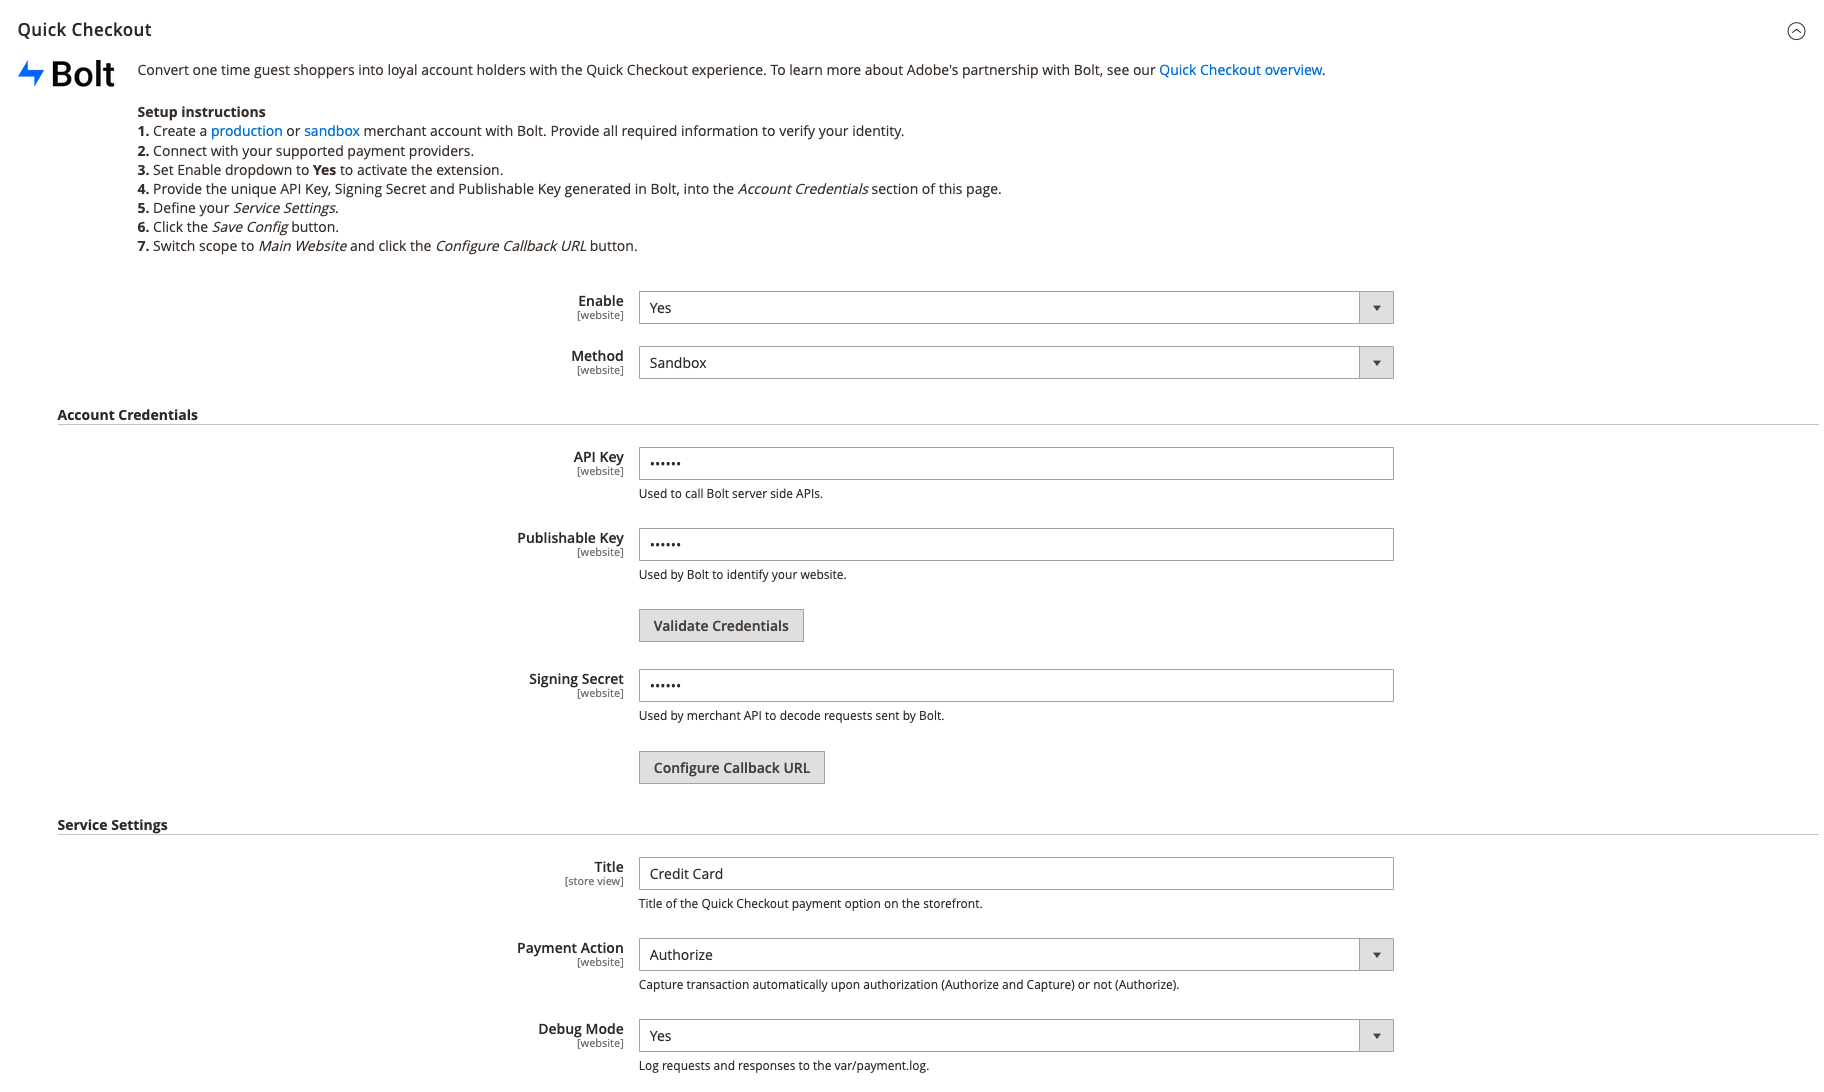
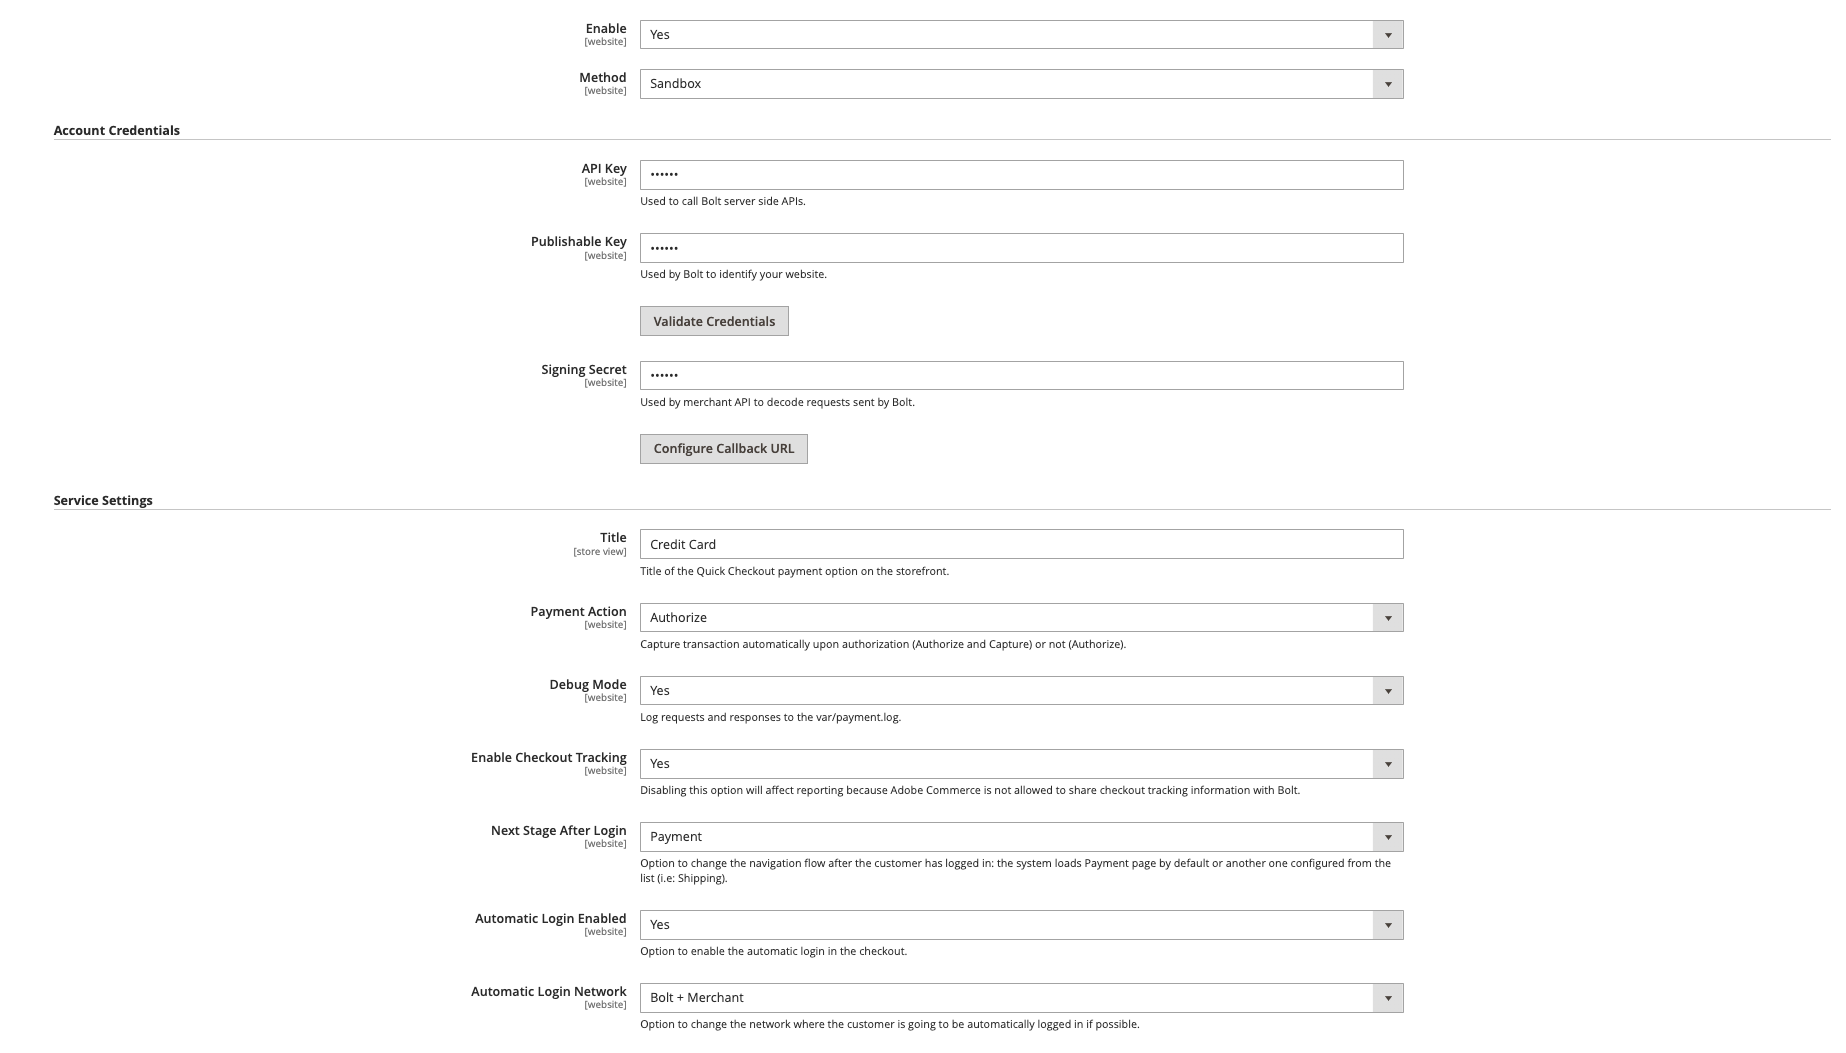
BOLT-522: Update release notes page with Quick Checkout 1.5.0 release (#248)
* changes from BOLT-522

* Latest changes from automatic login

* added release notes for 1.5.0

diff --git a/help/quick-checkout/onboarding.md b/help/quick-checkout/onboarding.md
@@ -93,7 +93,7 @@ To connect your payment services provider follow the steps described in the [pro
 
 1. Validate credentials after providing your unique API and [!DNL Publishable keys].
 
-![Quick Checkout](assets/quick-checkout-main-view-react.png)
+![Quick Checkout](assets/quick-checkout-main-view.png)
 
 Refer to the [Settings](../quick-checkout/settings-quick-checkout.md) topic for more information on the configuration options for the [!DNL Quick Checkout] for Adobe Commerce extension.
 
@@ -103,7 +103,7 @@ Refer to the [Settings](../quick-checkout/settings-quick-checkout.md) topic for 
 
 ## Complete Admin configuration
 
-1. On the _Admin_ sidebar, navigate to **Stores** > **Configuration** > **Checkout** to acess the general Checkout Admin config page.
+1. On the _Admin_ sidebar, navigate to **Stores** > **Configuration** > **Checkout** to access the general Checkout Admin config page.
 1. In the _Service Settings_ section, provide all details required to enable the extension.
 1. Set _Payment Action_ to either option:
 
@@ -143,6 +143,7 @@ See the [Site, Store, and View Scope](https://experienceleague.adobe.com/docs/co
    > Disabling this option will affect reporting because Adobe Commerce is not allowed to share checkout tracking information with Bolt.
 
 1. Select the **Next Stage After Login** option to change the navigation flow after the customer has logged in. By default it is set to the **Payments** page.
+1. Define if [!DNL Quick Checkout] allows for the **automatic login** during checkout. By default it is enabled to automatically login to the [!DNL Bolt] network.
 
 ## Get help
 

diff --git a/help/quick-checkout/release-notes.md b/help/quick-checkout/release-notes.md
@@ -59,6 +59,20 @@ _October 5, 2022_
 
 +++
 
+## v1.5.0
+
+_January 18, 2023_
+
+![New](../assets/new.svg)<!-- Issue BOLT-522 --> A new configuration can be enabled/disabled to detect if [shoppers](https://experienceleague.adobe.com/docs/commerce-merchant-services/quick-checkout/manage-checkout/checkout-options/checkout-adobe-commerce.html) can be automatically logged in Bolt.
+
+![New](../assets/new.svg)<!-- Issue BOLT-523 --> A new configuration can be enabled/disabled that allows merchants to specify if shoppers can be automatically logged in to both networks, or just Bolt network.
+
+![Fixed issue](../assets/fix.svg)<!-- Issue BOLT-542 --> User experience improvements when [saving card or address to a Bolt account](https://experienceleague.adobe.com/docs/commerce-merchant-services/quick-checkout/getting-started/onboarding.html) when a shopper provides email.
+
+![Fixed issue](../assets/fix.svg)<!-- Issue BOLT-550 --> User experience improvements in [automatic login](https://experienceleague.adobe.com/docs/commerce-merchant-services/quick-checkout/getting-started/onboarding.html#configure-service-settings) when a Bolt user provides email.
+
+![Fixed issue](../assets/fix.svg)<!-- Issue BOLT-544 --> Compatibility improvements for [callback URLs](https://experienceleague.adobe.com/docs/commerce-merchant-services/quick-checkout/getting-started/onboarding.html#check-shopper-valid-account) with [multi-sites](https://experienceleague.adobe.com/docs/commerce-operations/configuration-guide/multi-sites/ms-overview.html) in Bolt. 
+
 ## v1.4.0
 
 _November 30, 2022_

diff --git a/help/quick-checkout/settings-quick-checkout.md b/help/quick-checkout/settings-quick-checkout.md
@@ -12,7 +12,7 @@ To access these configuration settings:
 1. On the _Admin_ sidebar, go to **Stores** > _Settings_ > **Configuration**.
 1. In the left panel, expand **Sales** and select **Checkout**.
 
-   ![Quick Checkout](assets/quick-checkout-main-view-admin.png)
+   ![Quick Checkout](assets/configuration-view.png)
 
 Refer to the [Onboarding](../quick-checkout/onboarding.md) topic for more information on how to configure the [!DNL Quick Checkout] for Adobe Commerce.
 
@@ -50,5 +50,7 @@ Refer to the [Onboarding](../quick-checkout/onboarding.md) topic for more inform
 | [!UICONTROL Debug Mode] | website | Enable or disable Debug Mode. Options: [!UICONTROL Yes] / [!UICONTROL No] |
 | [!UICONTROL Enable checkout tracking] | website | Define if Adobe Commerce allows checkout tracking information to be shared with Bolt. Enabled by default. If disabled, reporting will be affected. Options: [!UICONTROL Yes] / [!UICONTROL No] |
 | [!UICONTROL Next Stage After Login Mode] | website | Change navigation flow after customer is logged in. Options: [!UICONTROL Payment] / [!UICONTROL Shipping] |
+| [!UICONTROL Automatic Login Enabled] | website | Define if [!DNL Quick Checkout] allows for the automatic login during checkout. Enabled by default. Options: [!UICONTROL Yes] / [!UICONTROL No] |
+| [!UICONTROL Automatic Login Network] | website | Select the network where the customer logs in automatically. Enabled Bolt by default. Options: [!UICONTROL Bolt + Merchant] / [!UICONTROL Bolt] |
 
 {style="table-layout:auto"}

diff --git a/help/quick-checkout/checkout-adobe-commerce.md b/help/quick-checkout/checkout-adobe-commerce.md
@@ -34,6 +34,19 @@ If the shopper is logged in to Adobe Commerce prior to checkout, the [!DNL Bolt]
 
 If you encounter issues when you place an order as an existing Adobe Commerce user, see the [Troubleshoot Quick Checkout issues](https://experienceleague.adobe.com/docs/commerce-knowledge-base/kb/troubleshooting/miscellaneous/quick-checkout-issues.html) article in the Adobe Commerce Help Center.
 
+### Automatic login
+
+It is possible to configure an automatic login for [!DNL Quick Checkout] users. You can enable a configuration to automatically login a user during checkout.
+
+1. On the _Admin_ sidebar, navigate to **Stores** > **Configuration** > **Checkout** to access the general Checkout Admin config page.
+1. In the _Service Settings_ section for [!DNL Quick Checkout], provide all details required to setup automatic login.
+
+See [[!DNL Quick Checkout] configure service settings](../quick-checkout/onboarding.md#configure-service-settings) topic for more information.
+
+>[!NOTE]
+>
+> First time login when **automatic login** is enabled requires consent from the user to authorize it by accepting a pop-up window.
+
 ## New [!DNL Bolt] account
 
 If no [!DNL Bolt] account is found, shoppers continue with their default out-of-the-box Adobe Commerce checkout and the shopper selects all necessary details from their saved information to place the order:

diff --git a/help/quick-checkout/admin-panel.md b/help/quick-checkout/admin-panel.md
@@ -8,9 +8,6 @@ exl-id: d91763ed-b4f6-4736-9503-0305edd77e91
 [!DNL Quick Checkout] for Adobe Commerce and Magento Open Source provides an Admin panel view with all the necessary information to set up and use the extension.
 
 1. On the _Admin_ sidebar, go to **[!UICONTROL Sales]** > **[!UICONTROL Quick Checkout]**:
-
-   ![Menu Quick Checkout](assets/sales-quickcheckout.png)
-
 1. In this view, you can access the _Admin panel_ overview, _Resources_ about [!DNL Quick Checkout], get _Help and Support_, or configure the extension via _Settings_.
 
    ![Menu Quick Checkout](assets/admin-panel-view.png)

diff --git a/help/quick-checkout/user-roles-setup.md b/help/quick-checkout/user-roles-setup.md
@@ -19,7 +19,7 @@ To allow the user access and visibility to the [!DNL Quick Checkout] Admin panel
 
 1. On the _Admin_ sidebar, go to **[!UICONTROL System]** > Permissions > **[!UICONTROL User Roles]**.
 
-    ![User Roles](assets/user-roles.png)
+    ![User Roles](assets/user-roles-small.png)
 
 1. In the _Roles_ view, click **Add New Role** 
 1. Select the [!DNL Quick Checkout] resources:
